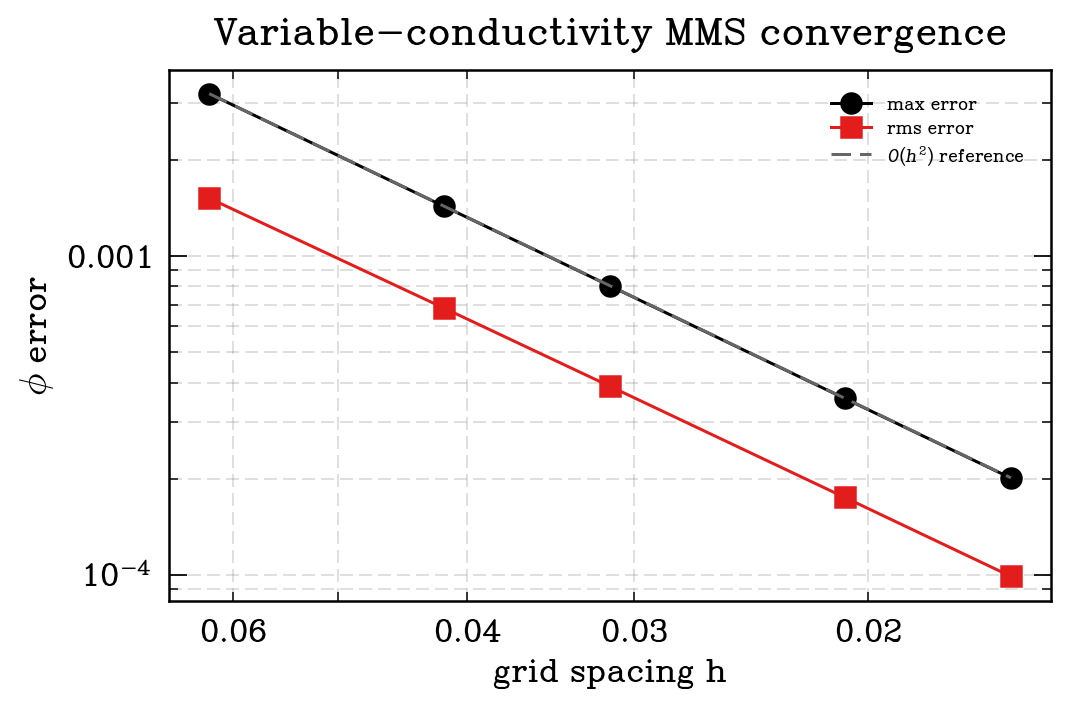
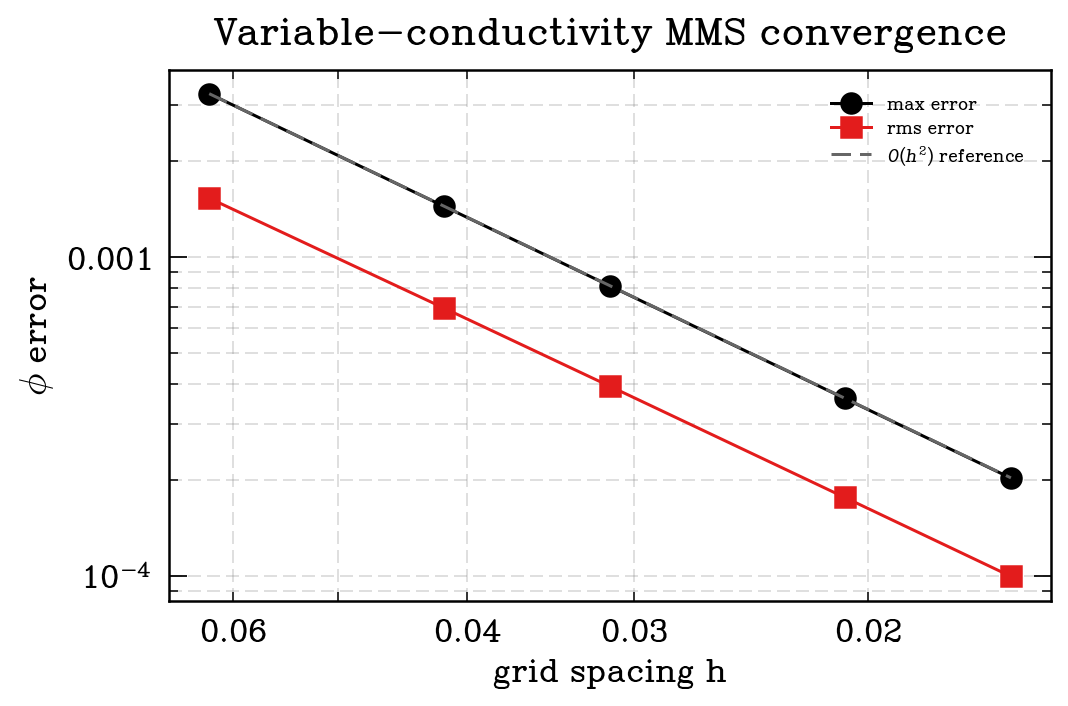
lm-mhd: add two-region conductivity reference mms

diff --git a/cases/lm_mhd_coupling/inductionless_two_region_sigma_mms.py b/cases/lm_mhd_coupling/inductionless_two_region_sigma_mms.py
@@ -1,0 +1,191 @@
+#!/usr/bin/env python3
+"""Two-region conductivity-jump potential MMS diagnostic.
+
+This verifies that the Python variable-conductivity reference can represent a
+face-aligned material jump with continuity of potential and normal current. It
+is a finite-difference reference artifact, not a MUG result.
+"""
+from __future__ import annotations
+
+import argparse
+import csv
+import sys
+from pathlib import Path
+
+import matplotlib
+
+matplotlib.use("Agg")
+import smplotlib  # noqa: F401  (applies the style on import)
+import matplotlib.pyplot as plt
+import numpy as np
+
+ROOT = Path(__file__).resolve().parents[2]
+sys.path.insert(0, str(ROOT / "src" / "python"))
+
+try:
+    from OpenFUSIONToolkit.LM_MHD import solve_variable_conductivity_dirichlet_2d  # noqa: E402
+except FileNotFoundError:  # pragma: no cover - source-tree convenience path
+    import importlib.util  # noqa: E402
+
+    inductionless_path = ROOT / "src" / "python" / "OpenFUSIONToolkit" / "LM_MHD" / "inductionless.py"
+    spec = importlib.util.spec_from_file_location("lm_mhd_inductionless", inductionless_path)
+    inductionless = importlib.util.module_from_spec(spec)
+    sys.modules[spec.name] = inductionless
+    spec.loader.exec_module(inductionless)
+    solve_variable_conductivity_dirichlet_2d = inductionless.solve_variable_conductivity_dirichlet_2d
+
+
+def parse_args() -> argparse.Namespace:
+    parser = argparse.ArgumentParser(description=__doc__)
+    parser.add_argument("--outdir", default="cases/lm_mhd_coupling/results", help="output directory")
+    parser.add_argument("--nx", type=int, default=64, help="even number of x grid points")
+    parser.add_argument("--nz", type=int, default=33, help="number of z grid points")
+    parser.add_argument("--sigma-left", type=float, default=1.0, help="left-region conductivity")
+    parser.add_argument("--sigma-right", type=float, default=4.0, help="right-region conductivity")
+    return parser.parse_args()
+
+
+def build_case(args: argparse.Namespace) -> dict[str, np.ndarray | float]:
+    if args.nx % 2 != 0:
+        raise ValueError("--nx must be even so the interface lies on a grid face")
+    x = np.linspace(0.0, 1.0, args.nx)
+    z = np.linspace(0.0, 1.0, args.nz)
+    x_grid, z_grid = np.meshgrid(x, z, indexing="xy")
+    interface = 0.5
+    sigma_left = args.sigma_left
+    sigma_right = args.sigma_right
+    flux = 1.0 / (interface / sigma_left + (1.0 - interface) / sigma_right)
+    conductivity = np.where(x_grid < interface, sigma_left, sigma_right)
+    phi_1d = np.where(
+        x <= interface,
+        flux * x / sigma_left,
+        flux * interface / sigma_left + flux * (x - interface) / sigma_right,
+    )
+    phi_exact = np.broadcast_to(phi_1d, x_grid.shape)
+    source = np.zeros_like(phi_exact)
+    phi = solve_variable_conductivity_dirichlet_2d(conductivity, source, x, z, boundary_values=phi_exact)
+    error = phi - phi_exact
+    left_idx = x.size // 2 - 1
+    right_idx = x.size // 2
+    h = x[1] - x[0]
+    sigma_face = 2.0 * sigma_left * sigma_right / (sigma_left + sigma_right)
+    interface_flux = sigma_face * (phi[:, right_idx] - phi[:, left_idx]) / h
+    return {
+        "x": x,
+        "z": z,
+        "x_grid": x_grid,
+        "z_grid": z_grid,
+        "conductivity": conductivity,
+        "phi_exact": phi_exact,
+        "phi": phi,
+        "error": error,
+        "interface_flux": interface_flux,
+        "target_flux": float(flux),
+        "max_error": float(np.max(np.abs(error))),
+        "rms_error": float(np.sqrt(np.mean(error**2))),
+        "max_flux_error": float(np.max(np.abs(interface_flux - flux))),
+        "interface": interface,
+    }
+
+
+def write_metrics(outdir: Path, case: dict[str, np.ndarray | float]) -> None:
+    rows = [
+        ("target_flux", float(case["target_flux"])),
+        ("max_error", float(case["max_error"])),
+        ("rms_error", float(case["rms_error"])),
+        ("max_interface_flux_error", float(case["max_flux_error"])),
+    ]
+    with (outdir / "inductionless_two_region_sigma_mms_metrics.csv").open("w", newline="") as handle:
+        writer = csv.writer(handle, lineterminator="\n")
+        writer.writerow(["metric", "value"])
+        for key, value in rows:
+            writer.writerow([key, f"{value:.12e}"])
+
+
+def plot_solution(outdir: Path, case: dict[str, np.ndarray | float]) -> None:
+    x_grid = case["x_grid"]
+    z_grid = case["z_grid"]
+    fig, axes = plt.subplots(1, 4, figsize=(14.8, 3.8), sharex=True, sharey=True)
+    panels = [
+        (case["conductivity"], r"$\sigma$", "viridis"),
+        (case["phi_exact"], r"exact $\phi$", "magma"),
+        (case["phi"], r"solved $\phi$", "magma"),
+        (case["error"], r"$\phi$ error", "coolwarm"),
+    ]
+    for ax, (values, title, cmap) in zip(axes, panels):
+        img = ax.pcolormesh(x_grid, z_grid, values, shading="auto", cmap=cmap)
+        ax.axvline(float(case["interface"]), color="white", lw=0.8)
+        ax.set_aspect("equal")
+        ax.set_xlabel("x")
+        ax.set_ylabel("z")
+        ax.set_title(title)
+        fig.colorbar(img, ax=ax)
+    fig.suptitle("Two-region conductivity-jump MMS")
+    fig.tight_layout()
+    fig.savefig(outdir / "inductionless_two_region_sigma_mms_solution.png", dpi=180)
+    plt.close(fig)
+
+
+def plot_flux(outdir: Path, case: dict[str, np.ndarray | float]) -> None:
+    fig, ax = plt.subplots(figsize=(6.3, 4.2))
+    z = case["z"]
+    flux = case["interface_flux"]
+    target = float(case["target_flux"])
+    ax.plot(z, flux, label="interface flux")
+    ax.axhline(target, color="0.35", ls="--", label="target flux")
+    ax.set_xlabel("z")
+    ax.set_ylabel(r"$\sigma \partial\phi/\partial x$")
+    ax.set_title("Normal current continuity at material interface")
+    ax.grid(True, alpha=0.25)
+    ax.legend(fontsize=8)
+    fig.tight_layout()
+    fig.savefig(outdir / "inductionless_two_region_sigma_mms_flux.png", dpi=180)
+    plt.close(fig)
+
+
+def write_summary(outdir: Path, case: dict[str, np.ndarray | float]) -> None:
+    lines = [
+        "# Two-region conductivity-jump potential MMS",
+        "",
+        "This is a finite-difference reference diagnostic for material-interface",
+        "coefficient handling. It does not run MUG.",
+        "",
+        "Manufactured setup:",
+        "- Two conductivities: sigma_left = 1, sigma_right = 4.",
+        "- The interface is aligned with an x-grid face at x = 0.5.",
+        "- The exact potential is piecewise linear.",
+        "- The source is zero.",
+        "- Potential and normal current are continuous across the interface.",
+        "",
+        "Result:",
+        f"- target interface flux = {float(case['target_flux']):.6e}.",
+        f"- max potential error = {float(case['max_error']):.3e}.",
+        f"- max interface-flux error = {float(case['max_flux_error']):.3e}.",
+        "",
+        "Generated files:",
+        "- `inductionless_two_region_sigma_mms_metrics.csv`",
+        "- `inductionless_two_region_sigma_mms_solution.png`",
+        "- `inductionless_two_region_sigma_mms_flux.png`",
+        "",
+        "Red-team interpretation:",
+        "- The interface is face-aligned and one-dimensional in x.",
+        "- This checks harmonic face averaging and flux continuity only.",
+        "- It is not a finite-element multi-region implementation.",
+    ]
+    (outdir / "inductionless_two_region_sigma_mms_summary.md").write_text("\n".join(lines) + "\n")
+
+
+def main() -> None:
+    args = parse_args()
+    outdir = ROOT / args.outdir
+    outdir.mkdir(parents=True, exist_ok=True)
+    case = build_case(args)
+    write_metrics(outdir, case)
+    plot_solution(outdir, case)
+    plot_flux(outdir, case)
+    write_summary(outdir, case)
+    print(f"Wrote two-region conductivity MMS diagnostics to {outdir}")
+
+
+if __name__ == "__main__":
+    main()

diff --git a/src/python/OpenFUSIONToolkit/LM_MHD/inductionless.py b/src/python/OpenFUSIONToolkit/LM_MHD/inductionless.py
@@ -277,7 +277,7 @@ def solve_variable_conductivity_dirichlet_2d(
 ) -> np.ndarray:
     '''Solve div(sigma grad(phi)) = source with Dirichlet walls.
 
-    This uniform-grid reference uses arithmetic face averages for sigma. It is
+    This uniform-grid reference uses harmonic face averages for sigma. It is
     meant for manufactured tests of regional/material-coefficient handling, not
     for production blanket solves.
     '''
@@ -311,10 +311,10 @@ def solve_variable_conductivity_dirichlet_2d(
             grid_x = ix + 1
             row = row_index(iz, ix)
             sigma_center = sigma[grid_z, grid_x]
-            sigma_e = 0.5 * (sigma_center + sigma[grid_z, grid_x + 1])
-            sigma_w = 0.5 * (sigma_center + sigma[grid_z, grid_x - 1])
-            sigma_n = 0.5 * (sigma_center + sigma[grid_z + 1, grid_x])
-            sigma_s = 0.5 * (sigma_center + sigma[grid_z - 1, grid_x])
+            sigma_e = _harmonic_mean(sigma_center, sigma[grid_z, grid_x + 1])
+            sigma_w = _harmonic_mean(sigma_center, sigma[grid_z, grid_x - 1])
+            sigma_n = _harmonic_mean(sigma_center, sigma[grid_z + 1, grid_x])
+            sigma_s = _harmonic_mean(sigma_center, sigma[grid_z - 1, grid_x])
 
             rows.append(row)
             cols.append(row)
@@ -539,6 +539,10 @@ def _uniform_spacing(name: str, coord: np.ndarray) -> float:
     if not np.allclose(diffs, spacing, rtol=1.0e-12, atol=1.0e-14):
         raise ValueError(f"{name} must be uniformly spaced for this reference solve")
     return spacing
+
+
+def _harmonic_mean(left: float, right: float) -> float:
+    return float(2.0 * left * right / (left + right))
 
 
 def _normal_gradient_values(

diff --git a/src/tests/physics/test_lm_mhd_inductionless.py b/src/tests/physics/test_lm_mhd_inductionless.py
@@ -240,3 +240,33 @@ def test_variable_conductivity_dirichlet_solver_rejects_nonpositive_sigma():
 
     with pytest.raises(ValueError, match="conductivity"):
         solve_variable_conductivity_dirichlet_2d(conductivity, source, x, z)
+
+
+def test_variable_conductivity_dirichlet_solver_handles_two_region_flux_continuity():
+    x = np.linspace(0.0, 1.0, 64)
+    z = np.linspace(0.0, 1.0, 17)
+    x_grid, _ = np.meshgrid(x, z, indexing="xy")
+    interface = 0.5
+    sigma_left = 1.0
+    sigma_right = 4.0
+    flux = 1.0 / (interface / sigma_left + (1.0 - interface) / sigma_right)
+    conductivity = np.where(x_grid < interface, sigma_left, sigma_right)
+    phi_1d = np.where(
+        x <= interface,
+        flux * x / sigma_left,
+        flux * interface / sigma_left + flux * (x - interface) / sigma_right,
+    )
+    phi_exact = np.broadcast_to(phi_1d, x_grid.shape)
+    source = np.zeros_like(phi_exact)
+
+    phi = solve_variable_conductivity_dirichlet_2d(conductivity, source, x, z, boundary_values=phi_exact)
+    error = phi - phi_exact
+
+    left_idx = x.size // 2 - 1
+    right_idx = x.size // 2
+    h = x[1] - x[0]
+    sigma_face = 2.0 * sigma_left * sigma_right / (sigma_left + sigma_right)
+    interface_flux = sigma_face * (phi[:, right_idx] - phi[:, left_idx]) / h
+
+    assert np.max(np.abs(error)) < 1.0e-12
+    np.testing.assert_allclose(interface_flux, flux, rtol=1.0e-12, atol=1.0e-12)

diff --git a/docs/dev/lm_mhd_inductionless_reference_plan.md b/docs/dev/lm_mhd_inductionless_reference_plan.md
@@ -73,6 +73,10 @@ Generated artifacts in `cases/lm_mhd_coupling/results/`:
 - `inductionless_variable_sigma_mms_solution.png`
 - `inductionless_variable_sigma_mms_convergence.png`
 - `inductionless_variable_sigma_mms_summary.md`
+- `inductionless_two_region_sigma_mms_metrics.csv`
+- `inductionless_two_region_sigma_mms_solution.png`
+- `inductionless_two_region_sigma_mms_flux.png`
+- `inductionless_two_region_sigma_mms_summary.md`
 
 Headline metrics from the default run:
 
@@ -223,6 +227,29 @@ Observed max-error convergence:
 | 49 | `2.083e-2` | `3.568e-4` | `2.001` |
 | 65 | `1.562e-2` | `2.007e-4` | `2.000` |
 
+## Two-region conductivity-jump reference
+
+The diagnostic `cases/lm_mhd_coupling/inductionless_two_region_sigma_mms.py`
+checks a face-aligned material interface. The source is zero, the exact
+potential is piecewise linear, and the normal current is continuous across the
+interface:
+
+```text
+sigma_left = 1
+sigma_right = 4
+target interface flux = 1.6
+```
+
+The variable-conductivity reference uses harmonic face averages, which recover
+the interface flux for this face-aligned two-region problem.
+
+Default result:
+
+| quantity | value |
+|---|---:|
+| max potential error | `6.217e-14` |
+| max interface-flux error | `1.061e-13` |
+
 ## Why this matters
 
 The roadmap correctly identifies inductionless electric-potential MHD as the
@@ -242,8 +269,9 @@ current diagnostics, Lorentz force, and Joule dissipation.
 - The constant-conductivity `u x B` MMS has no material jumps, conductivity
   tensors, conducting-wall Robin condition, or current continuity across
   regions.
-- The variable-conductivity MMS is smooth and Dirichlet-only; it does not yet
-  test discontinuous material interfaces or Neumann current closure.
+- The two-region conductivity-jump MMS is face-aligned and one-dimensional in
+  x; it does not yet test curved or unaligned material interfaces.
+- Variable-coefficient Neumann current closure is not implemented yet.
 - The MMS current is manufactured and is not a resolved Hartmann, Shercliff, or
   Hunt flow.
 - The structured-grid divergence diagnostic is for reference/postprocessing; it
@@ -251,7 +279,8 @@ current diagnostics, Lorentz force, and Joule dissipation.
 
 ## Next step
 
-The next non-invasive reference step should be a two-region conductivity-jump
-MMS with continuity of potential and normal current across the interface. That
-would exercise the part of the eventual finite-element mode most likely to
-matter for multi-material blankets while still avoiding risky Fortran edits.
+The next non-invasive reference step should be variable-coefficient Neumann
+current closure: solve `div(sigma grad phi) = div(sigma u x B)` with prescribed
+normal current data and verify `J.n = 0` on insulating walls for spatially
+varying or regional sigma. That would connect the material-coefficient and
+inductionless-current pieces before any Fortran edits.

diff --git a/cases/lm_mhd_coupling/results/inductionless_two_region_sigma_mms_summary.md b/cases/lm_mhd_coupling/results/inductionless_two_region_sigma_mms_summary.md
@@ -1,0 +1,26 @@
+# Two-region conductivity-jump potential MMS
+
+This is a finite-difference reference diagnostic for material-interface
+coefficient handling. It does not run MUG.
+
+Manufactured setup:
+- Two conductivities: sigma_left = 1, sigma_right = 4.
+- The interface is aligned with an x-grid face at x = 0.5.
+- The exact potential is piecewise linear.
+- The source is zero.
+- Potential and normal current are continuous across the interface.
+
+Result:
+- target interface flux = 1.600000e+00.
+- max potential error = 6.217e-14.
+- max interface-flux error = 1.061e-13.
+
+Generated files:
+- `inductionless_two_region_sigma_mms_metrics.csv`
+- `inductionless_two_region_sigma_mms_solution.png`
+- `inductionless_two_region_sigma_mms_flux.png`
+
+Red-team interpretation:
+- The interface is face-aligned and one-dimensional in x.
+- This checks harmonic face averaging and flux continuity only.
+- It is not a finite-element multi-region implementation.

diff --git a/docs/dev/lm_mhd_verification_overnight_log.md b/docs/dev/lm_mhd_verification_overnight_log.md
@@ -36,3 +36,4 @@ Timestamped running log. Append-only. All times UTC.
 2026-07-01T16:43:22Z - Wrote docs/dev/lm_mhd_autonomous_progress_2026-07-01.md progress ledger summarizing commits, artifacts, checks, dirty-tree boundary, and next non-invasive inductionless reference step.
 2026-07-01T23:01:04Z - Started/implemented autonomous slice 7: full constant-sigma inductionless potential MMS linking u x B source, insulating Neumann wall data, potential solve, reconstructed current, div(J), and wall-normal-current checks.
 2026-07-01T23:05:45Z - Implemented autonomous slice 8: smooth variable-conductivity Dirichlet MMS for div(sigma grad(phi)), second-order convergence plots/CSV, and positive-conductivity tests.
+2026-07-01T23:10:15Z - Implemented autonomous slice 9: two-region conductivity-jump MMS with harmonic face averaging, face-aligned interface, roundoff potential recovery, and normal-current continuity plot/CSV.

diff --git a/docs/dev/lm_mhd_autonomous_progress_2026-07-01.md b/docs/dev/lm_mhd_autonomous_progress_2026-07-01.md
@@ -179,5 +179,20 @@ Default convergence:
 | 49 | `3.568e-4` | `2.001` |
 | 65 | `2.007e-4` | `2.000` |
 
-The next best target is now a two-region conductivity-jump MMS with continuity
-of potential and normal current across the interface.
+The two-region conductivity-jump reference was then implemented as
+`cases/lm_mhd_coupling/inductionless_two_region_sigma_mms.py`. It uses
+harmonic face averaging across a face-aligned interface with
+`sigma_left = 1`, `sigma_right = 4`, zero source, and piecewise-linear exact
+potential.
+
+Default result:
+
+| quantity | value |
+|---|---:|
+| target interface flux | `1.600e0` |
+| max potential error | `6.217e-14` |
+| max interface-flux error | `1.061e-13` |
+
+The next best target is now variable-coefficient Neumann current closure:
+`div(sigma grad phi) = div(sigma u x B)` with insulating `J.n = 0` wall checks
+for spatially varying or regional sigma.

diff --git a/cases/lm_mhd_coupling/results/inductionless_variable_sigma_mms_summary.md b/cases/lm_mhd_coupling/results/inductionless_variable_sigma_mms_summary.md
@@ -11,8 +11,8 @@ Manufactured setup:
 
 Finest-grid result:
 - n = 65.
-- max error = 2.007e-04.
-- rms error = 9.873e-05.
+- max error = 2.032e-04.
+- rms error = 1.000e-04.
 
 Generated files:
 - `inductionless_variable_sigma_mms_metrics.csv`
